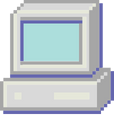
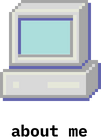
added contact page & subpage titles

diff --git a/about.html b/about.html
@@ -20,15 +20,17 @@ html {
    <img src="images/logo.png" alt="logo">
    </a>
   </header>
-<p>This is the about me page</p>
+
 <div class="wrapper">
 
 <div id="primary">
- <p class="one"><a href="about_me.html"><img src="images/docu.png" alt="document icon from the 1990's" title="about me"></a></p>
-  <p class="two"><a href="contact.html"><img src="images/cpu.png" alt="computer icon from the 1990's" title="contact me"></a></p>
+ <p class="one"><a href="project.html"><img src="images/docu.png" alt="document icon from the 1990's" title="about me"></a></p>
+  <p class="two"><a href="about.html"><img src="images/cpu.png" alt="computer icon from the 1990's" title="contact me"></a></p>
    <p class="three"><a href="homelab.html"><img src="images/rout.png" alt="router icon from the 1990's" title="my homelab"></a></p>
+   <p class="four"><a href="contact.html"><img src="images/plane.png" alt="paper plane icon" title="contact me"></a></p>
 </div>
 </div>
+
 
 <footer>
 

diff --git a/homelab.html b/homelab.html
@@ -20,15 +20,15 @@ html {
    <img src="images/logo.png" alt="logo">
    </a>
   </header>
-<p>This is my homelab page</p>
+
 <div class="wrapper">
 
 <div id="primary">
- <p class="one"><a href="about_me.html"><img src="images/docu.png" alt="document icon from the 1990's" title="about me"></a></p>
-  <p class="two"><a href="contact.html"><img src="images/cpu.png" alt="computer icon from the 1990's" title="contact me"></a></p>
+ <p class="one"><a href="project.html"><img src="images/docu.png" alt="document icon from the 1990's" title="about me"></a></p>
+  <p class="two"><a href="about.html"><img src="images/cpu.png" alt="computer icon from the 1990's" title="contact me"></a></p>
    <p class="three"><a href="homelab.html"><img src="images/rout.png" alt="router icon from the 1990's" title="my homelab"></a></p>
+   <p class="four"><a href="contact.html"><img src="images/plane.png" alt="paper plane icon" title="contact me"></a></p>
 </div>
-
 </div>
 
 <footer>

diff --git a/index.html b/index.html
@@ -24,9 +24,10 @@ html {
 <div class="wrapper">
 
 <div id="primary">
- <p class="one"><a href="about_me.html"><img src="images/docu.png" alt="document icon from the 1990's" title="about me"></a></p>
-  <p class="two"><a href="contact.html"><img src="images/cpu.png" alt="computer icon from the 1990's" title="contact me"></a></p>
+ <p class="one"><a href="project.html"><img src="images/docu.png" alt="document icon from the 1990's" title="about me"></a></p>
+  <p class="two"><a href="about.html"><img src="images/cpu.png" alt="computer icon from the 1990's" title="contact me"></a></p>
    <p class="three"><a href="homelab.html"><img src="images/rout.png" alt="router icon from the 1990's" title="my homelab"></a></p>
+   <p class="four"><a href="contact.html"><img src="images/plane.png" alt="paper plane icon" title="contact me"></a></p>
 </div>
 </div>
 

diff --git a/styles/style.css b/styles/style.css
@@ -25,7 +25,7 @@ section {
 }
 .wrapper {
  display: grid;
- grid-template-columns: repeat(3,1fr);
+ grid-template-columns: repeat(4,1fr);
  grid-auto-rows: minmax(200px, auto);
  padding-top:10px;
  padding-bottom: 1px;
@@ -37,7 +37,7 @@ display: grid;
  grid-column: 2;
  grid-row: 1;
  border: none;
- padding-top: 145px;
+ padding-top: 154px;
 
 }
  .two {
@@ -50,6 +50,20 @@ display: grid;
      grid-column: 3;
      grid-row: 1;
      border: none;
+     padding-top: 144px;
+}
+      .four {
+        grid-column: 4;
+        grid-row: 1;
+        border: none;
+        padding-top: 157px;
+}
+
+article {
+display: grid;
+justify-content: center;
+
+
 }
 section {
   display: grid;
@@ -63,6 +77,5 @@ p {
 
 footer {
 display: grid;
-padding-top: 100px;
 justify-content: end;
 }

diff --git a/project.html b/project.html
@@ -5,14 +5,14 @@
    <meta name="viewport" content="width=device-width, initial-scale=1.0">
    <link rel="stylesheet" href="styles/style.css">
    <title>ethanscode</title>
-<style>
-html {
-  background-color: #20b2b8;
-  color: white;
-  font-family: monospace;
-  font-size: 100%;
-}
-</style>
+   <style>
+   html {
+     background-color: #20b2b8;
+     color: white;
+     font-family: monospace;
+     font-size: 100%;
+   }
+   </style>
  </head>
   <body>
   <header>
@@ -30,6 +30,7 @@ html {
    <p class="four"><a href="contact.html"><img src="images/plane.png" alt="paper plane icon" title="contact me"></a></p>
 </div>
 </div>
+
 
 <footer>
 
